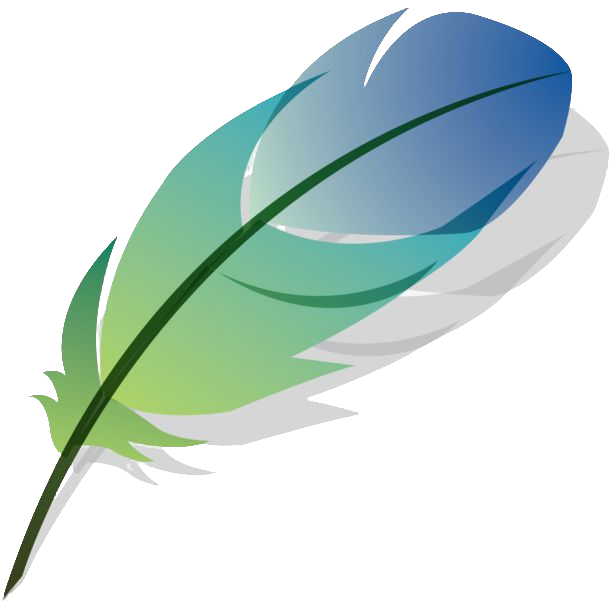
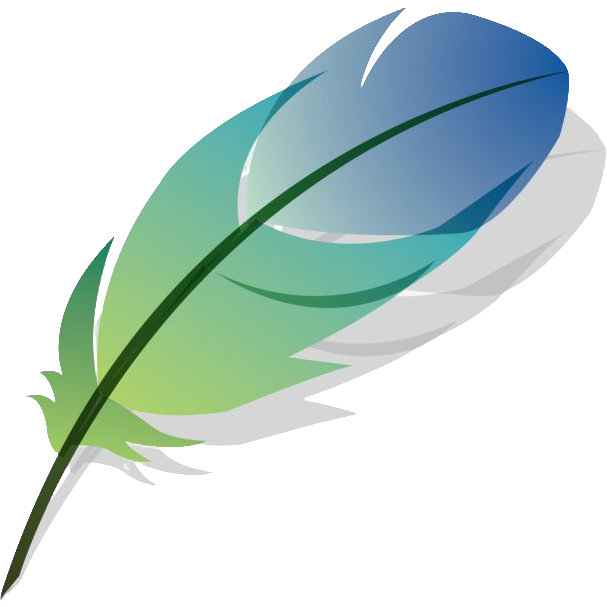
fix(*): 修改图标尺寸

diff --git a/popup/homePage.html b/popup/homePage.html
@@ -1,8 +1,8 @@
 <html lang="en">
-<!-- Copyright quancy -->
+<!-- Copyright 权朝阳 -->
 <head>
     <meta charset="UTF-8" />
-    <link rel="icon" href="../icons/yumao.png" />
+    <link rel="icon" href="../icons/yumao_32x32.png" />
     <link rel="stylesheet" href="../styles/homePage.css" />
     <link rel="stylesheet" href="../styles/updateLog.css" />
     <link rel="stylesheet" href="https://cdnjs.cloudflare.com/ajax/libs/animate.css/4.1.1/animate.min.css"/>
@@ -216,7 +216,7 @@
         </div>
         <div id="appDialog">
             <div class="dialogHead">
-                <img src="../icons/yumao.png" class="logoCss">
+                <img src="../icons/yumao_32x32.png" class="logoCss">
                 <span class="logTitle animate__animated animate__lightSpeedInRight">更新日志</span>
                 <img src="../icons/guanbi.svg" id="logDialogDelete">
             </div>

diff --git a/popup/myself.html b/popup/myself.html
@@ -1,5 +1,5 @@
 <html lang="en">
-<!-- Copyright quancy -->
+<!-- Copyright 权朝阳 -->
 <head>
     <meta charset="UTF-8" />
     <link rel="icon" href="../icons/Qimg.jpg" />
